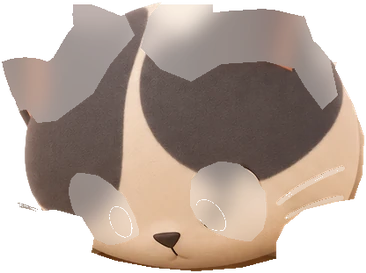
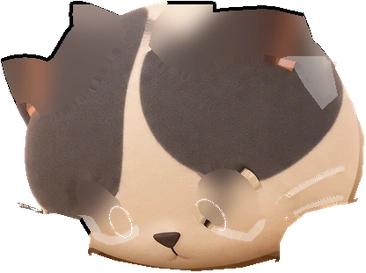
🐛 fix(404): clean the cat's seams, tail and right lid
Cut the baked tail sliver from the body and run a solid tail behind the back; drop the right eye's half lid. Re-export every layer with premultiplied resizing, colourless opaque pixels recoloured, see-through strips over nothing made solid, and each lower layer bled and repainted under its covering edge, so no dark line shows on a dark page.

diff --git a/components/lost-cat.tsx b/components/lost-cat.tsx
@@ -13,9 +13,10 @@ type Box = { left: number; top: number; width: number; w: number; h: number };
 const P = {
   shadow: { left: 4.289, top: 76.202, width: 95.188, w: 800, h: 172 },
   paper: { left: 0.418, top: 82.212, width: 23.954, w: 201, h: 121 },
-  tail: { left: 78.87, top: 0.601, width: 19.665, w: 165, h: 311 },
-  "tail-root": { left: 82.636, top: 30.048, width: 12.448, w: 105, h: 80 },
-  body: { left: 62.657, top: 28.846, width: 36.925, w: 310, h: 451 },
+  // The tail runs on behind the back as a solid tube, so it needs no root of
+  // its own.
+  tail: { left: 78.87, top: 0.601, width: 19.665, w: 165, h: 344 },
+  body: { left: 61.611, top: 28.726, width: 37.971, w: 319, h: 452 },
   box: { left: 7.427, top: 51.683, width: 76.987, w: 647, h: 351 },
   "neck-under": { left: 37.657, top: 25.841, width: 34.623, w: 291, h: 240 },
   "head-under": { left: 28.766, top: 21.274, width: 43.515, w: 366, h: 273 },
@@ -28,7 +29,6 @@ const P = {
   "lid-left-closed": { left: 36.611, top: 44.952, width: 8.577, w: 72, h: 70 },
   "eye-right-white": { left: 51.151, top: 43.149, width: 9.519, w: 80, h: 83 },
   "eye-right-solid": { left: 51.569, top: 43.87, width: 8.996, w: 76, h: 72 },
-  "lid-right-half": { left: 51.674, top: 43.389, width: 9.31, w: 78, h: 67 },
   "lid-right-closed": { left: 51.674, top: 43.389, width: 9.31, w: 78, h: 76 },
   "whiskers-left": { left: 27.197, top: 47.957, width: 7.636, w: 64, h: 40 },
   "whiskers-right": { left: 61.506, top: 43.75, width: 8.473, w: 71, h: 57 },
@@ -114,7 +114,9 @@ const Eye = ({ side }: { side: "left" | "right" }) => {
           />
         </div>
       </div>
-      <Layer part={`lid-${side}-half`} motion style={{ opacity: 0 }} />
+      {/* The right eye sits on the grey patch, where a half lid read as a
+          disc; it only ever closes. */}
+      {side === "left" && <Layer part="lid-left-half" motion style={{ opacity: 0 }} />}
       <Layer part={`lid-${side}-closed`} motion style={{ opacity: 0 }} />
     </>
   );
@@ -150,7 +152,8 @@ export const Cat = () => {
     const ears = { left: rig("ear-left"), right: rig("ear-right") };
     const pupils = { left: rig("pupil-left"), right: rig("pupil-right") };
     const lids = (["left", "right"] as const).map((side) => ({
-      half: q(`[data-part="lid-${side}-half"]`),
+      side,
+      half: root.querySelector<HTMLElement>(`[data-part="lid-${side}-half"]`),
       closed: q(`[data-part="lid-${side}-closed"]`),
     }));
 
@@ -237,11 +240,14 @@ export const Cat = () => {
       }
       const lid = lidAt(t);
       for (const l of lids) {
-        l.half.style.opacity = lid === 1 ? "1" : "0";
-        l.closed.style.opacity = lid === 2 ? "1" : "0";
+        // The right eye has no half lid: it stays open when bored and shuts
+        // for the whole of a blink.
+        const shut = l.half ? lid === 2 : lid === 2 || (lid === 1 && t - blinkAt < 0.2);
+        if (l.half) l.half.style.opacity = lid === 1 ? "1" : "0";
+        l.closed.style.opacity = shut ? "1" : "0";
       }
 
-      // The tail sways lazily about its root, within what the painted root holds.
+      // The tail sways lazily about its root; its tube runs on behind the back.
       const swing = Math.sin(t * 1.15) * 3 + Math.sin(t * 0.43 + 2) * 1.5;
       const bend = Math.sin(t * 1.15 - 0.9) * 2;
       tail.style.transform = `rotate(${swing}deg) skewX(${bend}deg)`;
@@ -309,7 +315,7 @@ export const Cat = () => {
         // The key pose, still: every rig back to its identity.
         for (const el of root.querySelectorAll<HTMLElement>("[data-rig]")) el.style.transform = "";
         for (const l of lids) {
-          l.half.style.opacity = "0";
+          if (l.half) l.half.style.opacity = "0";
           l.closed.style.opacity = "0";
         }
         rollX = 0;
@@ -351,7 +357,6 @@ export const Cat = () => {
       <Layer part="shadow" />
       <div className={styles.rig} data-rig="tail">
         <Layer part="tail" />
-        <Layer part="tail-root" motion />
       </div>
       <div className={styles.rig} data-rig="body">
         <Layer part="body" />

diff --git a/components/lost-cat.module.css b/components/lost-cat.module.css
@@ -43,8 +43,8 @@
   transform-origin: 63.72% 32.69%;
 }
 
-/* Paint for motion only (solid eyes, lids, the neck, the head's underside, the
-   tail's root): hidden on a still cat, which is the approved drawing as is. */
+/* Paint for motion only (solid eyes, lids, the neck, the head's underside):
+   hidden on a still cat, which is the approved drawing as is. */
 .scene:not([data-moving]) .part[data-motion] {
   visibility: hidden;
 }
